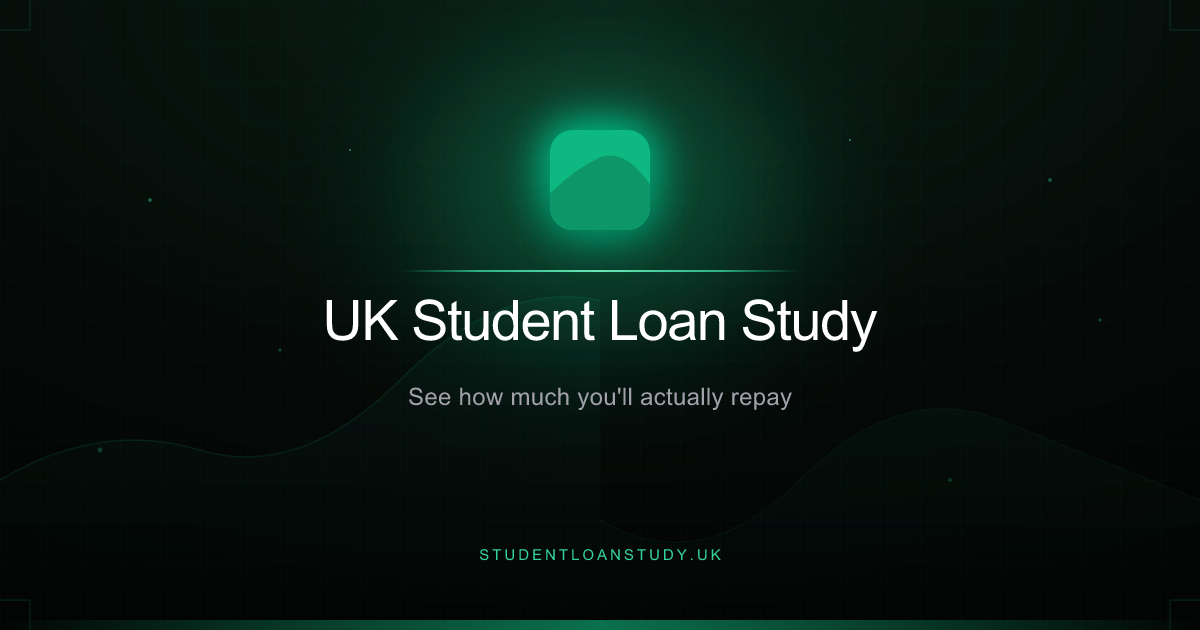
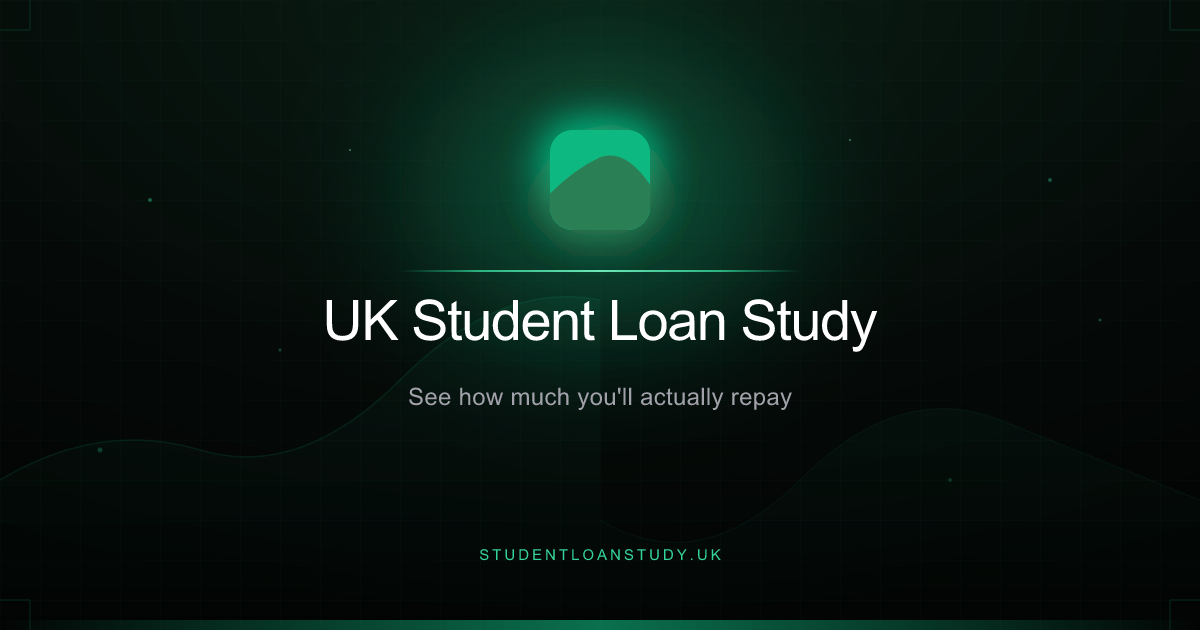
fix: resolve WCAG AA color contrast and missing label violations (#163)
## Summary

The accessibility e2e tests had two axe rules disabled (`color-contrast`
and `label`) to avoid failing on known violations. This PR fixes all
violations so the disabled rules list is now empty — every page passes
WCAG 2.1 AA with no exceptions.

The brand green was updated from `#0D9668` to `#2B7F55` to meet the
4.5:1 contrast ratio against white backgrounds. Opacity modifiers on
`text-muted-foreground` (which reduced contrast below threshold) were
removed, and `--muted-foreground` / `--status-success-foreground` tokens
were darkened slightly. Balance inputs in the config wizard now have
proper `<label htmlFor>` associations.

## Context

The brand color change was propagated to all five locations it appears
(CSS variable, SVG icon, BrandIcon constant, social image script,
regenerated PNGs). A `.light` theme-scoping class was added alongside
`.dark` to support the brand page's side-by-side logo demos. Arbitrary
Tailwind values in BrandGuidelinesPage were replaced with standard
tokens. Both conventions are now documented in CLAUDE.md.

Changed region(s): [[0.4317, 0.2413, 0.555, 0.3921]]

diff --git a/src/components/brand/BrandGuidelinesPage.tsx b/src/components/brand/BrandGuidelinesPage.tsx
@@ -85,7 +85,7 @@ export function BrandGuidelinesPage() {
 
         {/* Header */}
         <header className="mb-12">
-          <h1 className="font-display text-[32px] font-bold text-foreground">
+          <h1 className="font-display text-3xl font-bold text-foreground">
             Brand Guidelines
           </h1>
           <p className="mt-2 font-display text-base text-muted-foreground">
@@ -101,17 +101,15 @@ export function BrandGuidelinesPage() {
           <div className="grid gap-8 md:grid-cols-2">
             {/* Dark background */}
             <div className="flex flex-col gap-4">
-              <span className="text-[10px] text-muted-foreground">On Dark</span>
-              <Card className="flex items-center justify-center bg-zinc-900 p-8 dark:bg-zinc-900">
+              <span className="text-xs text-muted-foreground">On Dark</span>
+              <Card className="dark flex items-center justify-center p-8">
                 <BrandLogo variant="dark" />
               </Card>
             </div>
             {/* Light background */}
             <div className="flex flex-col gap-4">
-              <span className="text-[10px] text-muted-foreground">
-                On Light
-              </span>
-              <Card className="flex items-center justify-center bg-white p-8 dark:bg-white">
+              <span className="text-xs text-muted-foreground">On Light</span>
+              <Card className="light flex items-center justify-center p-8">
                 <BrandLogo variant="light" />
               </Card>
             </div>
@@ -124,9 +122,7 @@ export function BrandGuidelinesPage() {
             {ICON_SIZES.map((size) => (
               <div key={size} className="flex flex-col items-center gap-2">
                 <BrandIcon size={size} />
-                <span className="text-[10px] text-muted-foreground">
-                  {size}px
-                </span>
+                <span className="text-xs text-muted-foreground">{size}px</span>
               </div>
             ))}
           </div>
@@ -156,14 +152,14 @@ export function BrandGuidelinesPage() {
                 {CORE_TOKENS.map((token) => (
                   <div key={token.var} className="flex flex-col gap-3">
                     <div
-                      className="h-14 w-full rounded-[10px] ring-1 ring-border"
+                      className="h-14 w-full rounded-lg ring-1 ring-border"
                       style={{ backgroundColor: `var(${token.var})` }}
                     />
                     <div className="flex flex-col gap-0.5">
-                      <span className="font-display text-[13px] font-semibold text-foreground">
+                      <span className="font-display text-sm font-semibold text-foreground">
                         {token.name}
                       </span>
-                      <span className="font-mono text-[10px] text-muted-foreground">
+                      <span className="font-mono text-xs text-muted-foreground">
                         {token.var}
                       </span>
                     </div>
@@ -178,7 +174,7 @@ export function BrandGuidelinesPage() {
               <div className="grid gap-6 sm:grid-cols-2 lg:grid-cols-4">
                 {STATUS_GROUPS.map((group) => (
                   <div key={group.name} className="space-y-3">
-                    <span className="font-display text-[13px] font-semibold text-foreground">
+                    <span className="font-display text-sm font-semibold text-foreground">
                       {group.name}
                     </span>
                     <div className="grid grid-cols-3 gap-2">
@@ -188,7 +184,7 @@ export function BrandGuidelinesPage() {
                             className="h-10 w-full rounded-md ring-1 ring-border"
                             style={{ backgroundColor: `var(${token.var})` }}
                           />
-                          <span className="text-[10px] text-muted-foreground">
+                          <span className="text-xs text-muted-foreground">
                             {token.label}
                           </span>
                         </div>
@@ -206,14 +202,14 @@ export function BrandGuidelinesPage() {
                 {CHART_TOKENS.map((token) => (
                   <div key={token.var} className="flex flex-col gap-3">
                     <div
-                      className="h-14 w-full rounded-[10px] ring-1 ring-border"
+                      className="h-14 w-full rounded-lg ring-1 ring-border"
                       style={{ backgroundColor: `var(${token.var})` }}
                     />
                     <div className="flex flex-col gap-0.5">
-                      <span className="font-display text-[13px] font-semibold text-foreground">
+                      <span className="font-display text-sm font-semibold text-foreground">
                         {token.name}
                       </span>
-                      <span className="font-mono text-[10px] text-muted-foreground">
+                      <span className="font-mono text-xs text-muted-foreground">
                         {token.var}
                       </span>
                     </div>
@@ -253,7 +249,7 @@ export function BrandGuidelinesPage() {
             {LOGO_ANATOMY.map((point, index) => (
               <li key={index} className="flex items-start gap-3">
                 <span className="mt-1.5 size-1.5 shrink-0 rounded-sm bg-primary" />
-                <span className="text-[13px] leading-relaxed text-muted-foreground">
+                <span className="text-sm/relaxed text-muted-foreground">
                   {point}
                 </span>
               </li>
@@ -275,7 +271,7 @@ function Section({
 }) {
   return (
     <section className="mb-12">
-      <h2 className="mb-6 text-[11px] font-bold tracking-[2px] text-primary uppercase">
+      <h2 className="mb-6 text-xs font-bold tracking-widest text-primary uppercase">
         {title}
       </h2>
       {children}
@@ -285,7 +281,7 @@ function Section({
 
 function SubgroupLabel({ children }: { children: React.ReactNode }) {
   return (
-    <span className="mb-4 block text-[11px] font-medium tracking-wider text-muted-foreground uppercase">
+    <span className="mb-4 block text-xs font-medium tracking-wider text-muted-foreground uppercase">
       {children}
     </span>
   );
@@ -295,11 +291,11 @@ function ColorSwatch({ name, hex }: { name: string; hex: string }) {
   return (
     <div className="flex flex-col gap-3">
       <div
-        className="h-20 w-full rounded-[10px] ring-1 ring-border"
+        className="h-20 w-full rounded-lg ring-1 ring-border"
         style={{ backgroundColor: hex }}
       />
       <div className="flex flex-col gap-0.5">
-        <span className="font-display text-[13px] font-semibold text-foreground">
+        <span className="font-display text-sm font-semibold text-foreground">
           {name}
         </span>
         <span className="font-mono text-xs text-muted-foreground">{hex}</span>
@@ -334,7 +330,7 @@ function FontShowcase({
           {name}
         </span>
         <span className="text-xs text-muted-foreground">{usage}</span>
-        <span className="text-[11px] text-muted-foreground/70">{weights}</span>
+        <span className="text-xs text-muted-foreground">{weights}</span>
       </div>
     </div>
   );

diff --git a/src/app/globals.css b/src/app/globals.css
@@ -61,18 +61,19 @@
   --font-mono: var(--font-mono);
 }
 
-:root {
+:root,
+.light {
   --radius: 0.625rem;
   --card: oklch(1 0 0);
   --card-foreground: oklch(0.145 0 0);
   --popover: oklch(1 0 0);
   --popover-foreground: oklch(0.145 0 0);
-  --primary: oklch(0.6 0.13 163);
+  --primary: #2b7f55;
   --primary-foreground: oklch(0.98 0.02 166);
   --secondary: oklch(0.967 0.001 286.375);
   --secondary-foreground: oklch(0.21 0.006 285.885);
   --muted: oklch(0.97 0 0);
-  --muted-foreground: oklch(0.556 0 0);
+  --muted-foreground: oklch(0.53 0 0);
   --accent: oklch(0.97 0 0);
   --accent-foreground: oklch(0.205 0 0);
   --destructive: oklch(0.58 0.22 27);
@@ -82,11 +83,11 @@
   --chart-1: oklch(0.85 0.13 165);
   --chart-2: oklch(0.77 0.15 163);
   --chart-3: oklch(0.7 0.15 162);
-  --chart-4: oklch(0.6 0.13 163);
+  --chart-4: #2b7f55;
   --chart-5: oklch(0.51 0.1 166);
   --sidebar: oklch(0.985 0 0);
   --sidebar-foreground: oklch(0.145 0 0);
-  --sidebar-primary: oklch(0.6 0.13 163);
+  --sidebar-primary: oklch(0.49 0.15 159.1);
   --sidebar-primary-foreground: oklch(0.98 0.02 166);
   --sidebar-accent: oklch(0.97 0 0);
   --sidebar-accent-foreground: oklch(0.205 0 0);
@@ -97,7 +98,7 @@
   --status-info-foreground: oklch(0.546 0.245 262.881);
   --status-info: oklch(0.97 0.014 254.604);
   --status-info-border: oklch(0.882 0.059 254.128);
-  --status-success-foreground: oklch(0.596 0.145 163.225);
+  --status-success-foreground: oklch(0.52 0.145 163.225);
   --status-success: oklch(0.979 0.021 166.113);
   --status-success-border: oklch(0.905 0.093 164.15);
   --status-warning-foreground: oklch(0.666 0.179 58.318);
@@ -115,7 +116,7 @@
   --card-foreground: oklch(0.985 0 0);
   --popover: oklch(0.205 0 0);
   --popover-foreground: oklch(0.985 0 0);
-  --primary: oklch(0.7 0.15 162);
+  --primary: #34d399;
   --primary-foreground: oklch(0.26 0.05 173);
   --secondary: oklch(0.274 0.006 286.033);
   --secondary-foreground: oklch(0.985 0 0);
@@ -130,7 +131,7 @@
   --chart-1: oklch(0.85 0.13 165);
   --chart-2: oklch(0.77 0.15 163);
   --chart-3: oklch(0.7 0.15 162);
-  --chart-4: oklch(0.6 0.13 163);
+  --chart-4: #34d399;
   --chart-5: oklch(0.51 0.1 166);
   --sidebar: oklch(0.205 0 0);
   --sidebar-foreground: oklch(0.985 0 0);

diff --git a/src/components/Footer.tsx b/src/components/Footer.tsx
@@ -1,7 +1,7 @@
 import Link from "next/link";
 
 const NAV_LINK_CLASS =
-  "text-muted-foreground/70 transition-colors hover:text-foreground";
+  "text-muted-foreground transition-colors hover:text-foreground";
 
 export function Footer() {
   return (
@@ -12,7 +12,7 @@ export function Footer() {
           className="grid grid-cols-2 gap-8 text-sm sm:grid-cols-3"
         >
           <div className="space-y-3">
-            <h3 className="text-xs font-semibold tracking-wider text-muted-foreground/50 uppercase">
+            <h3 className="text-xs font-semibold tracking-wider text-muted-foreground uppercase">
               Calculators
             </h3>
             <ul className="space-y-2">
@@ -34,7 +34,7 @@ export function Footer() {
             </ul>
           </div>
           <div className="space-y-3">
-            <h3 className="text-xs font-semibold tracking-wider text-muted-foreground/50 uppercase">
+            <h3 className="text-xs font-semibold tracking-wider text-muted-foreground uppercase">
               Learn
             </h3>
             <ul className="space-y-2">
@@ -62,7 +62,7 @@ export function Footer() {
             </ul>
           </div>
           <div className="col-span-2 space-y-3 sm:col-span-1">
-            <h3 className="text-xs font-semibold tracking-wider text-muted-foreground/50 uppercase">
+            <h3 className="text-xs font-semibold tracking-wider text-muted-foreground uppercase">
               About
             </h3>
             <ul className="space-y-2">
@@ -76,7 +76,7 @@ export function Footer() {
         </nav>
 
         <div className="mt-8 border-t pt-6">
-          <p className="text-center text-xs text-muted-foreground/60 sm:text-sm">
+          <p className="text-center text-xs text-muted-foreground sm:text-sm">
             This calculator is for illustrative purposes only and does not
             constitute financial advice. Calculations are based on current UK
             student loan rules and may change. For personalised guidance,

diff --git a/e2e/accessibility.spec.ts b/e2e/accessibility.spec.ts
@@ -1,17 +1,13 @@
 import AxeBuilder from "@axe-core/playwright";
 import { type Page, test, expect } from "@playwright/test";
 
-// Pre-existing violations tracked separately — these rules are excluded so
-// the e2e suite catches *new* regressions without failing on known issues.
-const DISABLED_RULES = [
-  "color-contrast", // Multiple elements have insufficient contrast (tracked)
-  "label", // Some balance inputs in wizard lack explicit labels (tracked)
-];
-
 function axeScan(page: Page) {
-  return new AxeBuilder({ page })
-    .withTags(["wcag2a", "wcag2aa", "wcag21a", "wcag21aa"])
-    .disableRules(DISABLED_RULES);
+  return new AxeBuilder({ page }).withTags([
+    "wcag2a",
+    "wcag2aa",
+    "wcag21a",
+    "wcag21aa",
+  ]);
 }
 
 test.describe("Accessibility", () => {

diff --git a/src/components/LoanConfigPanel.tsx b/src/components/LoanConfigPanel.tsx
@@ -238,9 +238,12 @@ export function LoanConfigPanel({
           <div className="overflow-hidden">
             <div className="border-t border-border/50 px-4 pt-3 pb-4">
               <div className="mb-2 flex items-center justify-between">
-                <span className="text-xs font-medium text-muted-foreground">
+                <label
+                  htmlFor={`balance-${planType}`}
+                  className="text-xs font-medium text-muted-foreground"
+                >
                   {info.name} balance
-                </span>
+                </label>
                 <BalanceHelper />
               </div>
               <CurrencyInput

diff --git a/src/components/SalaryGrowthBadge.tsx b/src/components/SalaryGrowthBadge.tsx
@@ -48,9 +48,7 @@ export function SalaryGrowthBadge() {
           />
         }
       >
-        <span className="text-xs text-muted-foreground/70">
-          +{growthLabel}/yr
-        </span>
+        <span className="text-xs text-muted-foreground">+{growthLabel}/yr</span>
         <HugeiconsIcon icon={InformationCircleIcon} className="size-4" />
       </PopoverTrigger>
       <PopoverContent align="end" className="w-64 p-3">

diff --git a/eslint.config.js b/eslint.config.js
@@ -70,6 +70,11 @@ export default tseslint.config(
       ],
       // Disable line wrapping - causes React hydration mismatches with SSR
       "better-tailwindcss/enforce-consistent-line-wrapping": "off",
+      // Allow theme-scoping class names used in brand demos
+      "better-tailwindcss/no-unknown-classes": [
+        "error",
+        { ignore: ["dark", "light"] },
+      ],
     },
   },
   {

diff --git a/src/components/brand/BrandIcon.tsx b/src/components/brand/BrandIcon.tsx
@@ -2,7 +2,7 @@ import { cn } from "@/lib/utils";
 
 /** Brand hex constants — the two fixed colors used in the icon and logo. */
 export const BRAND_HEX = {
-  green: "#0D9668",
+  green: "#2B7F55",
   emerald: "#34D399",
 } as const;
 

diff --git a/CLAUDE.md b/CLAUDE.md
@@ -51,7 +51,15 @@ When updating design tokens (CSS variables, color tokens, etc.), always propagat
 
 ## Tailwind CSS
 
+**No arbitrary values.** Always use standard Tailwind utility classes for sizing, spacing, typography, border radius, tracking, etc. Never introduce arbitrary values like `text-[13px]`, `rounded-[10px]`, or `tracking-[2px]` — use the closest standard token (`text-sm`, `rounded-lg`, `tracking-widest`). This applies to all properties, not just breakpoints.
+
 Use built-in Tailwind breakpoints (`sm`, `md`, `lg`, `xl`, `2xl`) for responsive design. Do not introduce arbitrary breakpoint values like `min-[58rem]` — stick with the standard set for consistency. The only exception is `min-[30rem]` which is already established in the codebase for the mobile-to-tablet transition.
+
+## Brand Colors & Theme Scoping
+
+**Brand green:** `#2B7F55` — used as `--primary` in light mode, in `BRAND_HEX.green` (`src/components/brand/BrandIcon.tsx`), `icon.svg`, and `scripts/generate-social-images.mjs`. When changing the brand color, update ALL of these locations.
+
+**Theme scoping with `dark` / `light` classes:** The CSS defines `:root, .light { ... }` and `.dark { ... }` blocks. Adding `class="dark"` or `class="light"` to a container scopes all CSS variables for that subtree, useful for brand demos that need to show both themes regardless of the current page theme (see `BrandGuidelinesPage.tsx`).
 
 ## Code Quality Rules
 
